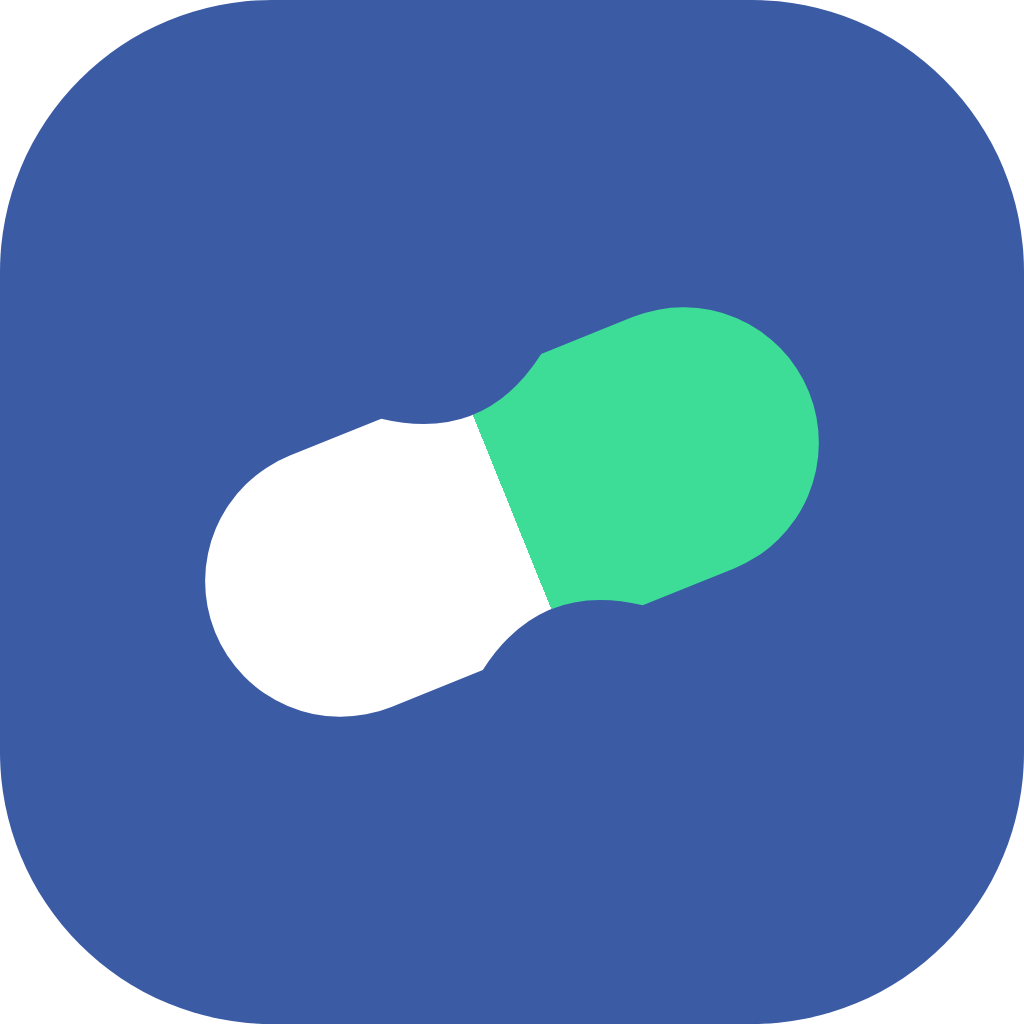
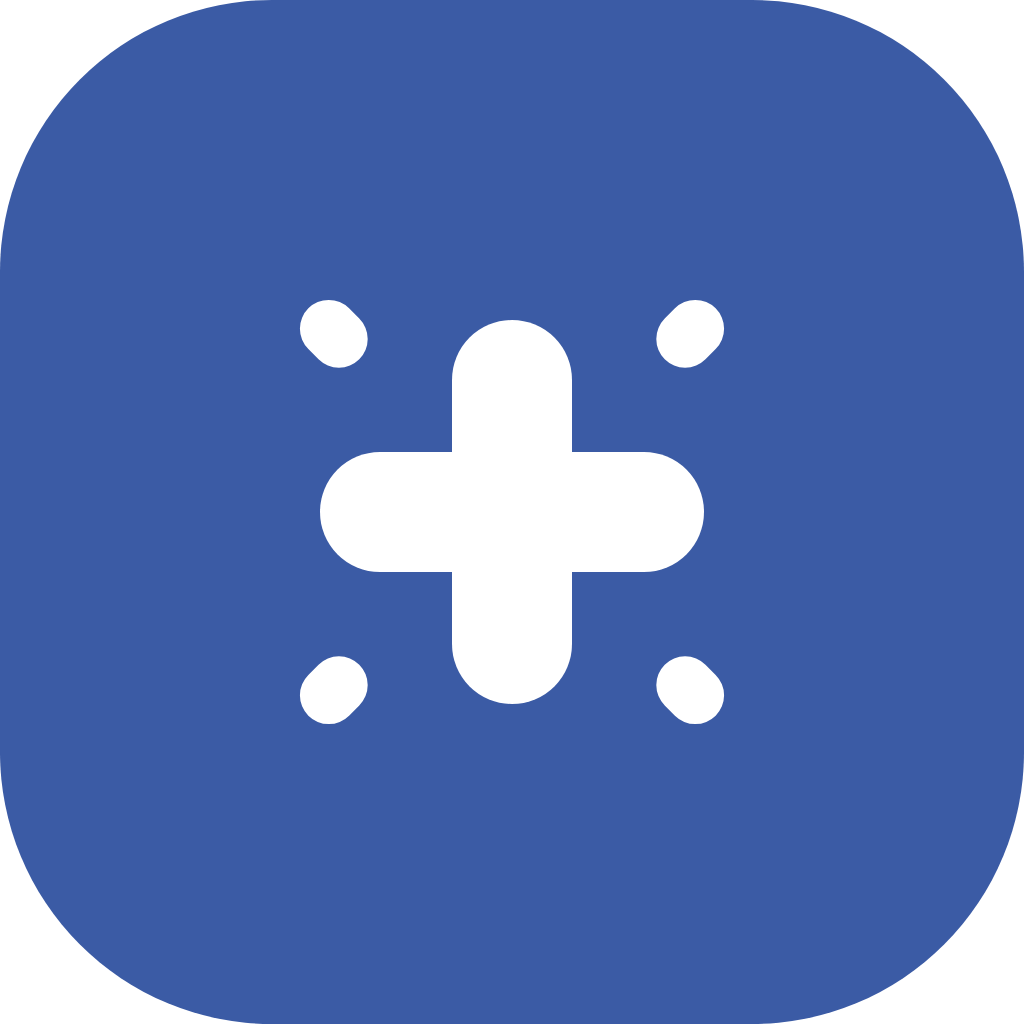
Nova marca: avi + cruz + Doc
Substitui a cápsula-curativo. A composição é avi em tinta, cruz em jade e Doc em
cobalto — a sílaba que nomeia o que a plataforma faz recebe a cor institucional.

A cruz tem dois desenhos e o componente escolhe sozinho pelo tamanho pedido.
Irradiada a partir de 16 px, maciça abaixo. O número não foi chutado: desenhei as
duas versões de 10 a 28 px e a 12 os raios somem, a 14 mal se distinguem, e a
partir de 16 lêem como quatro pontos ao redor do miolo. 16 é justamente a cruz do
cabeçalho (wordmark de 30 × 0,52), então o limiar ficou onde a marca mais aparece.

No ícone a cruz é BRANCA sobre cobalto, não verde. Cruz verde no Brasil é
letreiro de farmácia; no wordmark o verde é acento entre duas sílabas e o
contexto desfaz a leitura, mas sozinha num quadrado a cruz não tem esse contexto.

Sobre o jade continuar sendo o verde: ele fica a ΔE 11,8 do verde da Doctoralia,
menos da metade da distância que separa Doctoralia e Medprev entre si. A decisão
de manter foi consciente — sendo o único verde da marca e cercado de cobalto, o
contexto separa as duas. Fica registrado para quem for fazer a busca no INPI.

Regenerados favicon.svg, og-image.png e os seis arquivos de public/marca/.
MaintenancePage migrada de BrandCapsule para BrandCross. Nos dois e-mails
transacionais a cruz vira um "+" em texto: cliente de e-mail bloqueia SVG e
esconde imagem por padrão, e texto puro sempre renderiza.

Changed region(s): [[0.1875, 0.2812, 0.8125, 0.7188], [0.625, 0.625, 0.7188, 0.7188], [0.2812, 0.2812, 0.375, 0.375]]

diff --git a/src/components/Logo.jsx b/src/components/Logo.jsx
@@ -1,77 +1,88 @@
-import React, { useId } from 'react';
+import React from 'react';
 import { BRAND } from '@/config/brand';
 
 /**
- * Cápsula-curativo: pastilha de cantos totalmente arredondados com uma cintura
- * suave no meio, sempre desenhada **inclinada**. A inclinação não é enfeite —
- * é o que faz a forma ler como curativo em vez de pastilha genérica, porque é
- * assim que um curativo aparece na pele.
+ * A cruz da marca, desenhada só com blocos de cantos arredondados num viewBox
+ * 24×24. Ela vive entre as duas sílabas do nome — `avi` + cruz + `Doc` — e é
+ * também o ícone quadrado da marca.
  *
- * Desenhada num viewBox 104×44 e rotacionada −22° onde é usada. Mantenha essa
- * proporção: a cintura só se percebe enquanto a peça for bem mais larga que alta.
- */
-export const CAPSULE_VIEWBOX = '0 0 104 44';
-export const CAPSULE_PATH =
-  'M22 0 H38 Q52 10 66 0 H82 A22 22 0 0 1 82 44 H66 Q52 34 38 44 H22 A22 22 0 0 1 22 0 Z';
-
-/** Ângulo único da marca. Trocar aqui muda logo, ícone e favicon de uma vez. */
-export const CAPSULE_ANGLE = -22;
-
-/**
- * A cintura da cápsula cai exatamente na metade da forma — x = 52 de 104. Por
- * isso o degradê de parada dura em 50% corta bem na dobra, sem inventar uma
- * divisão que o desenho não tivesse. É o que separa as duas cores da marca.
- */
-export const CAPSULE_SPLIT = '50%';
-
-/** A caixa que comporta a forma já rotacionada, sem cortes. */
-export const CAPSULE_TILTED_VIEWBOX = '0 0 113 80';
-
-/**
- * A cápsula inclinada, pronta para compor. Desenha dentro do
- * CAPSULE_TILTED_VIEWBOX.
+ * São DOIS desenhos da mesma cruz, e isso não é redundância:
  *
- * Recebe as duas cores; passe a mesma nas duas para obter a versão de uma cor
- * só (documento em preto e branco, gravação, carimbo).
+ * - `irradiada` tem quatro raios curtos nas diagonais, cada um com 3 unidades
+ *   num glifo de 24 — 1/8 do tamanho.
+ * - `macica` é a mesma cruz sem os raios, para quando não há espaço.
+ *
+ * É o mesmo princípio dos tamanhos ópticos de uma fonte: o desenho muda para o
+ * olho continuar vendo a mesma coisa. Use `crossFor(px)` e não escolha na mão.
  */
-export const BrandCapsule = ({ color = BRAND.color, colorFim = BRAND.acento }) => {
-  // Um id por instância: sem isso, dois logos na mesma página compartilham o
-  // degradê e o segundo herda as cores do primeiro.
-  const id = `cap-${useId().replace(/:/g, '')}`;
-  const partido = color !== colorFim;
-
-  return (
-    <>
-      {partido && (
-        <defs>
-          <linearGradient id={id} x1="0" y1="0" x2="1" y2="0">
-            <stop offset={CAPSULE_SPLIT} stopColor={color} />
-            <stop offset={CAPSULE_SPLIT} stopColor={colorFim} />
-          </linearGradient>
-        </defs>
-      )}
-      <g transform={`rotate(${CAPSULE_ANGLE} 56.5 40) translate(4.5 18)`}>
-        <path d={CAPSULE_PATH} fill={partido ? `url(#${id})` : color} />
-      </g>
-    </>
-  );
-};
+export const CROSS_VIEWBOX = '0 0 24 24';
 
 /**
- * Ícone da marca — a cápsula inclinada dentro de um contêiner na cor da marca.
+ * Abaixo disto os raios deixam de se separar do miolo e a cruz vira mancha.
+ *
+ * O número saiu de desenhar as duas versões lado a lado de 10 a 28 px: a 12 px
+ * os raios somem, a 14 mal se distinguem e a partir de 16 já lêem como quatro
+ * pontos distintos ao redor da cruz. 16 é justamente o tamanho da cruz no
+ * cabeçalho do site (wordmark de 30 px × 0,52), então o limiar foi posto aqui de
+ * propósito: é onde a marca mais aparece, e é onde o desenho característico
+ * precisa estar.
+ */
+export const CROSS_DETAIL_MIN = 16;
+
+export const CROSS_IRRADIADA = (
+  <>
+    <rect x="9.5" y="4" width="5" height="16" rx="2.5" />
+    <rect x="4" y="9.5" width="16" height="5" rx="2.5" />
+    <rect x="10.8" y="0" width="2.4" height="3" rx="1.2" transform="rotate(45 12 12)" />
+    <rect x="10.8" y="21" width="2.4" height="3" rx="1.2" transform="rotate(45 12 12)" />
+    <rect x="10.8" y="0" width="2.4" height="3" rx="1.2" transform="rotate(135 12 12)" />
+    <rect x="10.8" y="21" width="2.4" height="3" rx="1.2" transform="rotate(135 12 12)" />
+  </>
+);
+
+export const CROSS_MACICA = (
+  <>
+    <rect x="9.5" y="4" width="5" height="16" rx="2.5" />
+    <rect x="4" y="9.5" width="16" height="5" rx="2.5" />
+  </>
+);
+
+/** O desenho certo para o tamanho em que a cruz vai ser exibida, em px. */
+export const crossFor = (px) => (px >= CROSS_DETAIL_MIN ? CROSS_IRRADIADA : CROSS_MACICA);
+
+/**
+ * A cruz pronta para compor, já no tamanho pedido.
+ * `size` é o lado em px — é ele que decide qual dos dois desenhos entra.
+ */
+export const BrandCross = ({ size = 24, color = BRAND.acento, className = '' }) => (
+  <svg
+    viewBox={CROSS_VIEWBOX}
+    width={size}
+    height={size}
+    fill={color}
+    className={className}
+    style={{ display: 'block', flex: 'none' }}
+    aria-hidden="true"
+    xmlns="http://www.w3.org/2000/svg"
+  >
+    {crossFor(size)}
+  </svg>
+);
+
+/**
+ * Ícone da marca — a cruz dentro de um contêiner na cor institucional.
  * Use onde o espaço é quadrado (avatar, notificação, crachá, favicon).
  * Para assinar uma página, prefira o <Wordmark />.
  *
- * Sobre o cobalto, o jade escureceria demais para ser visto: a metade de acento
- * usa a menta clara, a mesma que o wordmark usa em fundo escuro.
+ * A cruz aqui é **branca**, não verde, e de propósito: cruz verde no Brasil é
+ * letreiro de farmácia, e a aviDoc não vende remédio. No wordmark o verde é
+ * acento entre duas sílabas e o contexto desfaz a leitura; sozinha num quadrado,
+ * a cruz não tem esse contexto. O verde fica no wordmark.
  */
 const Logo = ({ className = 'w-10 h-10', shape = 'square', variant = 'default' }) => {
-  const id = `ico-${useId().replace(/:/g, '')}`;
   const invertido = variant === 'invertido';
-
   const fundo = invertido ? '#ffffff' : BRAND.color;
-  const forma = invertido ? BRAND.color : '#ffffff';
-  const formaFim = invertido ? BRAND.acento : BRAND.acentoClaro;
+  const cruz = invertido ? BRAND.color : '#ffffff';
 
   return (
     <svg
@@ -81,21 +92,16 @@ const Logo = ({ className = 'w-10 h-10', shape = 'square', variant = 'default' }
       aria-label={BRAND.name}
       xmlns="http://www.w3.org/2000/svg"
     >
-      <defs>
-        <linearGradient id={id} x1="0" y1="0" x2="1" y2="0">
-          <stop offset={CAPSULE_SPLIT} stopColor={forma} />
-          <stop offset={CAPSULE_SPLIT} stopColor={formaFim} />
-        </linearGradient>
-      </defs>
-
       {shape === 'circle' ? (
-        <circle cx="32" cy="32" r="30" fill={fundo} />
+        <circle cx="32" cy="32" r="32" fill={fundo} />
       ) : (
-        <rect x="2" y="2" width="60" height="60" rx="17" fill={fundo} />
+        <rect width="64" height="64" rx="17" fill={fundo} />
       )}
-
-      <g transform={`rotate(${CAPSULE_ANGLE} 32 32) translate(32 32) scale(0.385) translate(-52 -22)`}>
-        <path d={CAPSULE_PATH} fill={`url(#${id})`} />
+      {/* A cruz ocupa 36 dos 64 do contêiner, centrada. Sempre a irradiada:
+          o ícone nunca é desenhado abaixo de 20 px de lado, e nesse tamanho o
+          glifo interno ainda tem 11 px. */}
+      <g transform="translate(14 14) scale(1.5)" fill={cruz}>
+        {CROSS_IRRADIADA}
       </g>
     </svg>
   );

diff --git a/src/components/Wordmark.jsx b/src/components/Wordmark.jsx
@@ -1,6 +1,6 @@
 import React from 'react';
 import { BRAND } from '@/config/brand';
-import { CAPSULE_TILTED_VIEWBOX, BrandCapsule } from '@/components/Logo';
+import { BrandCross } from '@/components/Logo';
 
 /**
  * O wordmark foi desenhado nesta pilha, no peso 700 — que a Plus Jakarta Sans
@@ -11,31 +11,31 @@ const STACK =
   "'Avenir Next', Avenir, Futura, ui-sans-serif, system-ui, -apple-system, 'Segoe UI', Roboto, sans-serif";
 
 /**
- * Assinatura da marca: a cápsula-curativo inclinada à esquerda do nome "aviDoc".
+ * Assinatura da marca: `avi` + cruz + `Doc`.
  *
- * A cápsula é partida na cintura — cobalto na primeira metade, jade na segunda —
- * e a sílaba "Doc" repete o jade. As duas cores se correspondem: a metade verde
- * da forma e a sílaba verde do nome, de modo que o símbolo explica a palavra em
- * vez de só acompanhá-la.
+ * As três partes têm papéis distintos. `avi` fica em tinta, a cruz carrega o
+ * verde e `Doc` fica no cobalto — a sílaba que nomeia o que a plataforma faz é
+ * a que recebe a cor institucional.
  *
- * - `size` é o corpo da fonte em px; todo o resto é proporcional.
- * - `dark` inverte para fundo escuro: nome em branco, cores clareadas. O jade
- *   some no escuro, então a metade de acento vira menta clara.
- * - `accent={false}` mantém a cápsula partida mas escreve o nome inteiro em
- *   tinta. É a versão de rodapé e de documento: nada no texto depende da cor
- *   para ser lido, o que a torna segura em impressão de uma cor e em corpo
- *   pequeno.
+ * A cruz é o único lugar do produto onde o verde da marca aparece. Ela fica a
+ * ΔE 11,8 do verde da Doctoralia, o que é pouco; a decisão de manter foi
+ * consciente, pelo raciocínio de que, sendo o único verde da marca e cercado
+ * pelo cobalto, o contexto separa as duas.
  *
- * Tamanho mínimo: 14 px. Abaixo disso a cintura fecha — use o <Logo />.
+ * - `size` é o corpo da fonte em px; todo o resto é proporcional, inclusive qual
+ *   dos dois desenhos da cruz entra (ver Logo.jsx).
+ * - `dark` inverte para fundo escuro: o verde escurece demais e clareia, o
+ *   cobalto também.
+ * - `accent={false}` escreve tudo em tinta, cruz inclusive. É a versão de rodapé
+ *   e de documento: nada depende de cor para ser lido, então sobrevive a
+ *   impressão de uma cor, carimbo e fotocópia.
+ *
+ * Tamanho mínimo: 14 px. Abaixo disso use o <Logo />.
  */
 const Wordmark = ({ size = 22, ink = '#151a20', dark = false, accent = true, className = '' }) => {
-  const corCapsula = dark ? '#9FB4DE' : BRAND.color;
-  const corAcento = dark ? BRAND.acentoClaro : BRAND.acento;
   const corNome = dark ? '#ffffff' : ink;
-  const corDoc = accent ? corAcento : corNome;
-
-  const svgH = size * 1.15;
-  const svgW = (svgH * 113) / 80;
+  const corDoc = accent ? (dark ? '#9FB4DE' : BRAND.color) : corNome;
+  const corCruz = accent ? (dark ? BRAND.acentoClaro : BRAND.acento) : corNome;
 
   return (
     // `inline-flex` vai na classe, não no style, para o chamador conseguir
@@ -47,32 +47,17 @@ const Wordmark = ({ size = 22, ink = '#151a20', dark = false, accent = true, cla
       style={{
         fontFamily: STACK,
         alignItems: 'center',
-        gap: size * 0.28,
+        gap: size * 0.12,
         lineHeight: 1,
         whiteSpace: 'nowrap',
+        fontSize: size,
+        fontWeight: 700,
+        letterSpacing: '-0.025em',
       }}
     >
-      <svg
-        viewBox={CAPSULE_TILTED_VIEWBOX}
-        width={svgW}
-        height={svgH}
-        style={{ display: 'block', flex: 'none' }}
-        xmlns="http://www.w3.org/2000/svg"
-      >
-        <BrandCapsule color={corCapsula} colorFim={corAcento} />
-      </svg>
-
-      <span
-        style={{
-          fontSize: size,
-          fontWeight: 700,
-          letterSpacing: '-0.025em',
-          color: corNome,
-          lineHeight: 1,
-        }}
-      >
-        avi<span style={{ color: corDoc }}>Doc</span>
-      </span>
+      <span style={{ color: corNome }}>avi</span>
+      <BrandCross size={Math.round(size * 0.52)} color={corCruz} />
+      <span style={{ color: corDoc }}>Doc</span>
     </span>
   );
 };

diff --git a/src/pages/MaintenancePage.jsx b/src/pages/MaintenancePage.jsx
@@ -1,7 +1,7 @@
 import React from 'react';
 import { BRAND } from '@/config/brand';
 import { Helmet } from 'react-helmet';
-import { BrandCapsule } from '@/components/Logo';
+import { BrandCross } from '@/components/Logo';
 import Wordmark from '@/components/Wordmark';
 
 const DEFAULT_MSG = 'Estamos realizando melhorias na plataforma para atendê-lo melhor. Voltamos em instantes.';
@@ -17,9 +17,7 @@ const MaintenancePage = ({ message }) => (
 
     <div className="max-w-md">
       <div className="mx-auto mb-7 w-20 h-20 rounded-2xl bg-white shadow-lg shadow-brand-500/10 border border-brand-100 flex items-center justify-center">
-        <svg viewBox="0 0 104 44" className="w-14" aria-hidden="true">
-          <BrandCapsule color="#3B5BA5" />
-        </svg>
+        <BrandCross size={48} color="#3B5BA5" />
       </div>
 
       <div className="flex justify-center mb-4">

diff --git a/supabase/functions/send-appointment-email/index.ts b/supabase/functions/send-appointment-email/index.ts
@@ -27,7 +27,7 @@ function shell(title: string, accent: string, bodyHtml: string) {
   <div style="max-width:560px;margin:0 auto;padding:24px 16px;">
     <div style="background:#fff;border:1px solid #e2e8f0;border-radius:14px;overflow:hidden;">
       <div style="background:linear-gradient(135deg,#28385C 0%,#3B5BA5 100%);padding:22px 28px;">
-        <div style="font-size:20px;font-weight:800;color:#fff;letter-spacing:-.3px;">avi<span style="color:#3DDC97">Doc</span></div>
+        <div style="font-size:20px;font-weight:800;color:#fff;letter-spacing:-.3px;">avi<span style="color:#3DDC97;padding:0 3px;">+</span>Doc</div>
         <div style="font-size:12px;color:rgba(255,255,255,.85);margin-top:2px;">Marketplace de agendamentos médicos</div>
       </div>
       <div style="padding:28px;">

diff --git a/supabase/functions/send-doctor-invite/index.ts b/supabase/functions/send-doctor-invite/index.ts
@@ -24,7 +24,7 @@ function buildHtml(link: string) {
   <div style="max-width:560px;margin:0 auto;padding:28px 14px;">
     <div style="background:#ffffff;border-radius:14px;overflow:hidden;border:1px solid #e2e8f0;">
       <div style="background:linear-gradient(135deg,#28385C 0%,#3B5BA5 100%);padding:26px 28px;">
-        <h1 style="color:#ffffff;margin:0;font-size:20px;">avi<span style="color:#3DDC97">Doc</span></h1>
+        <h1 style="color:#ffffff;margin:0;font-size:20px;">avi<span style="color:#3DDC97;padding:0 3px;">+</span>Doc</h1>
         <p style="color:#C9D6EE;margin:6px 0 0;font-size:13px;">Convite para médico parceiro</p>
       </div>
       <div style="padding:28px;font-size:15px;line-height:1.65;">
